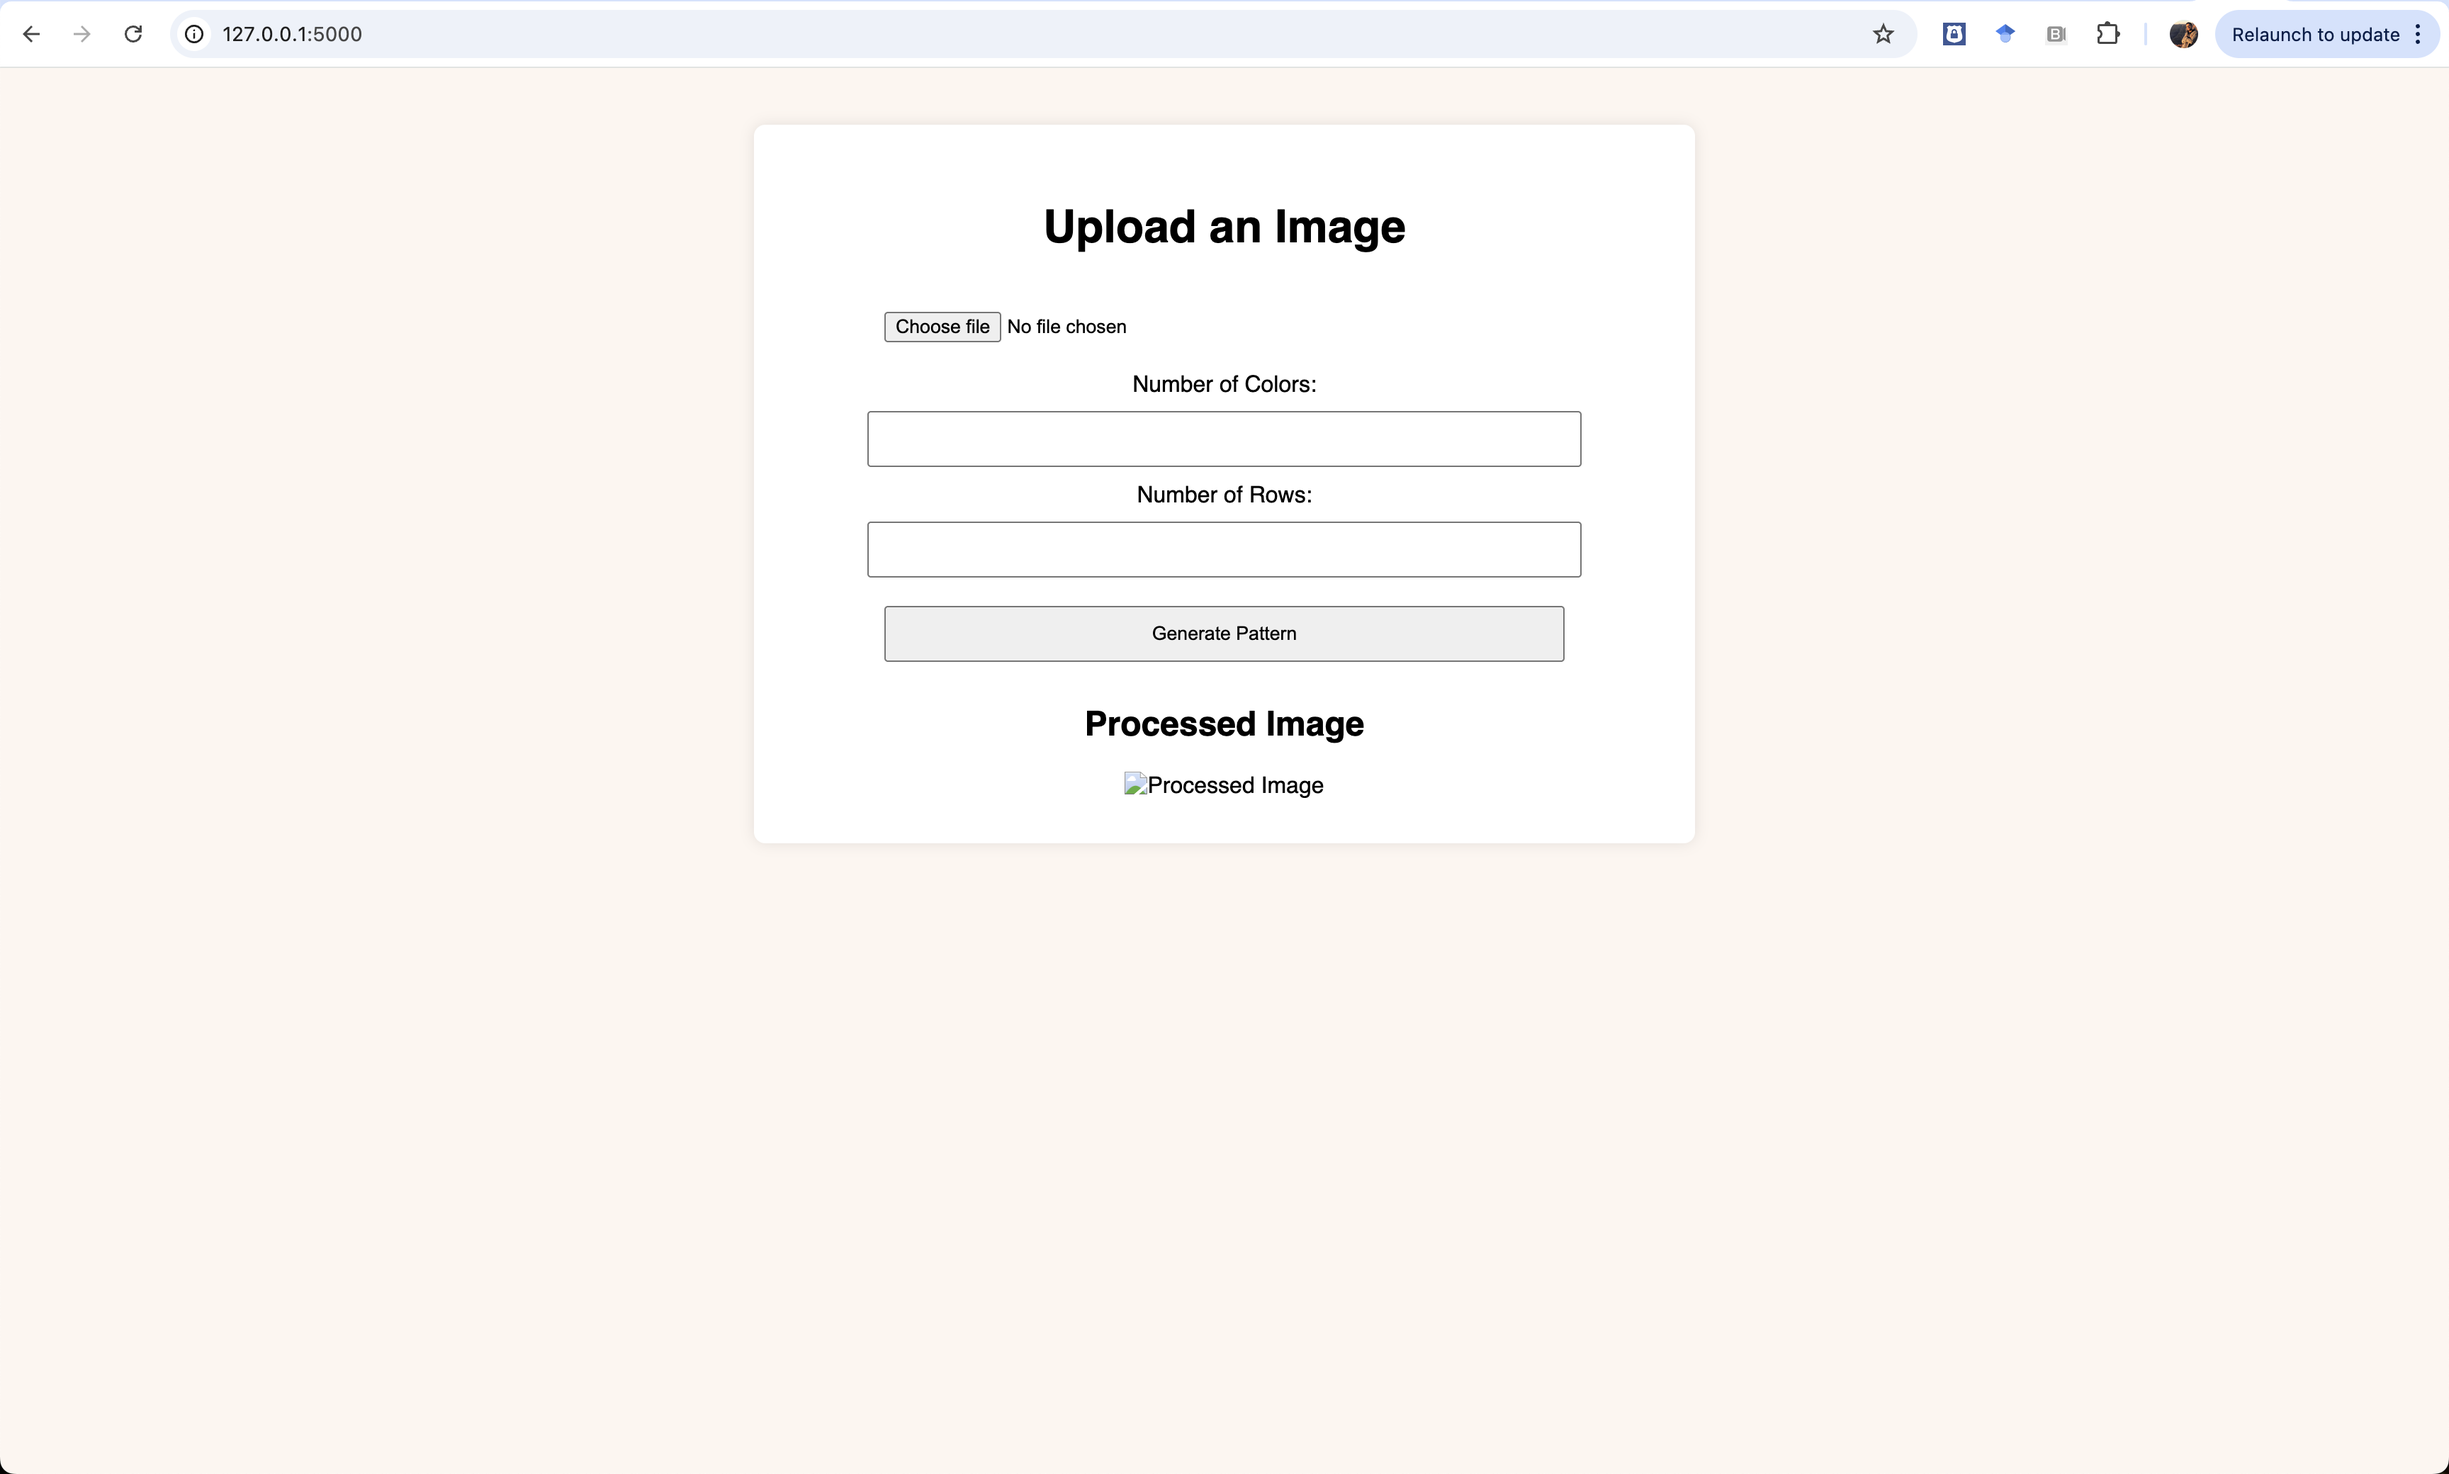
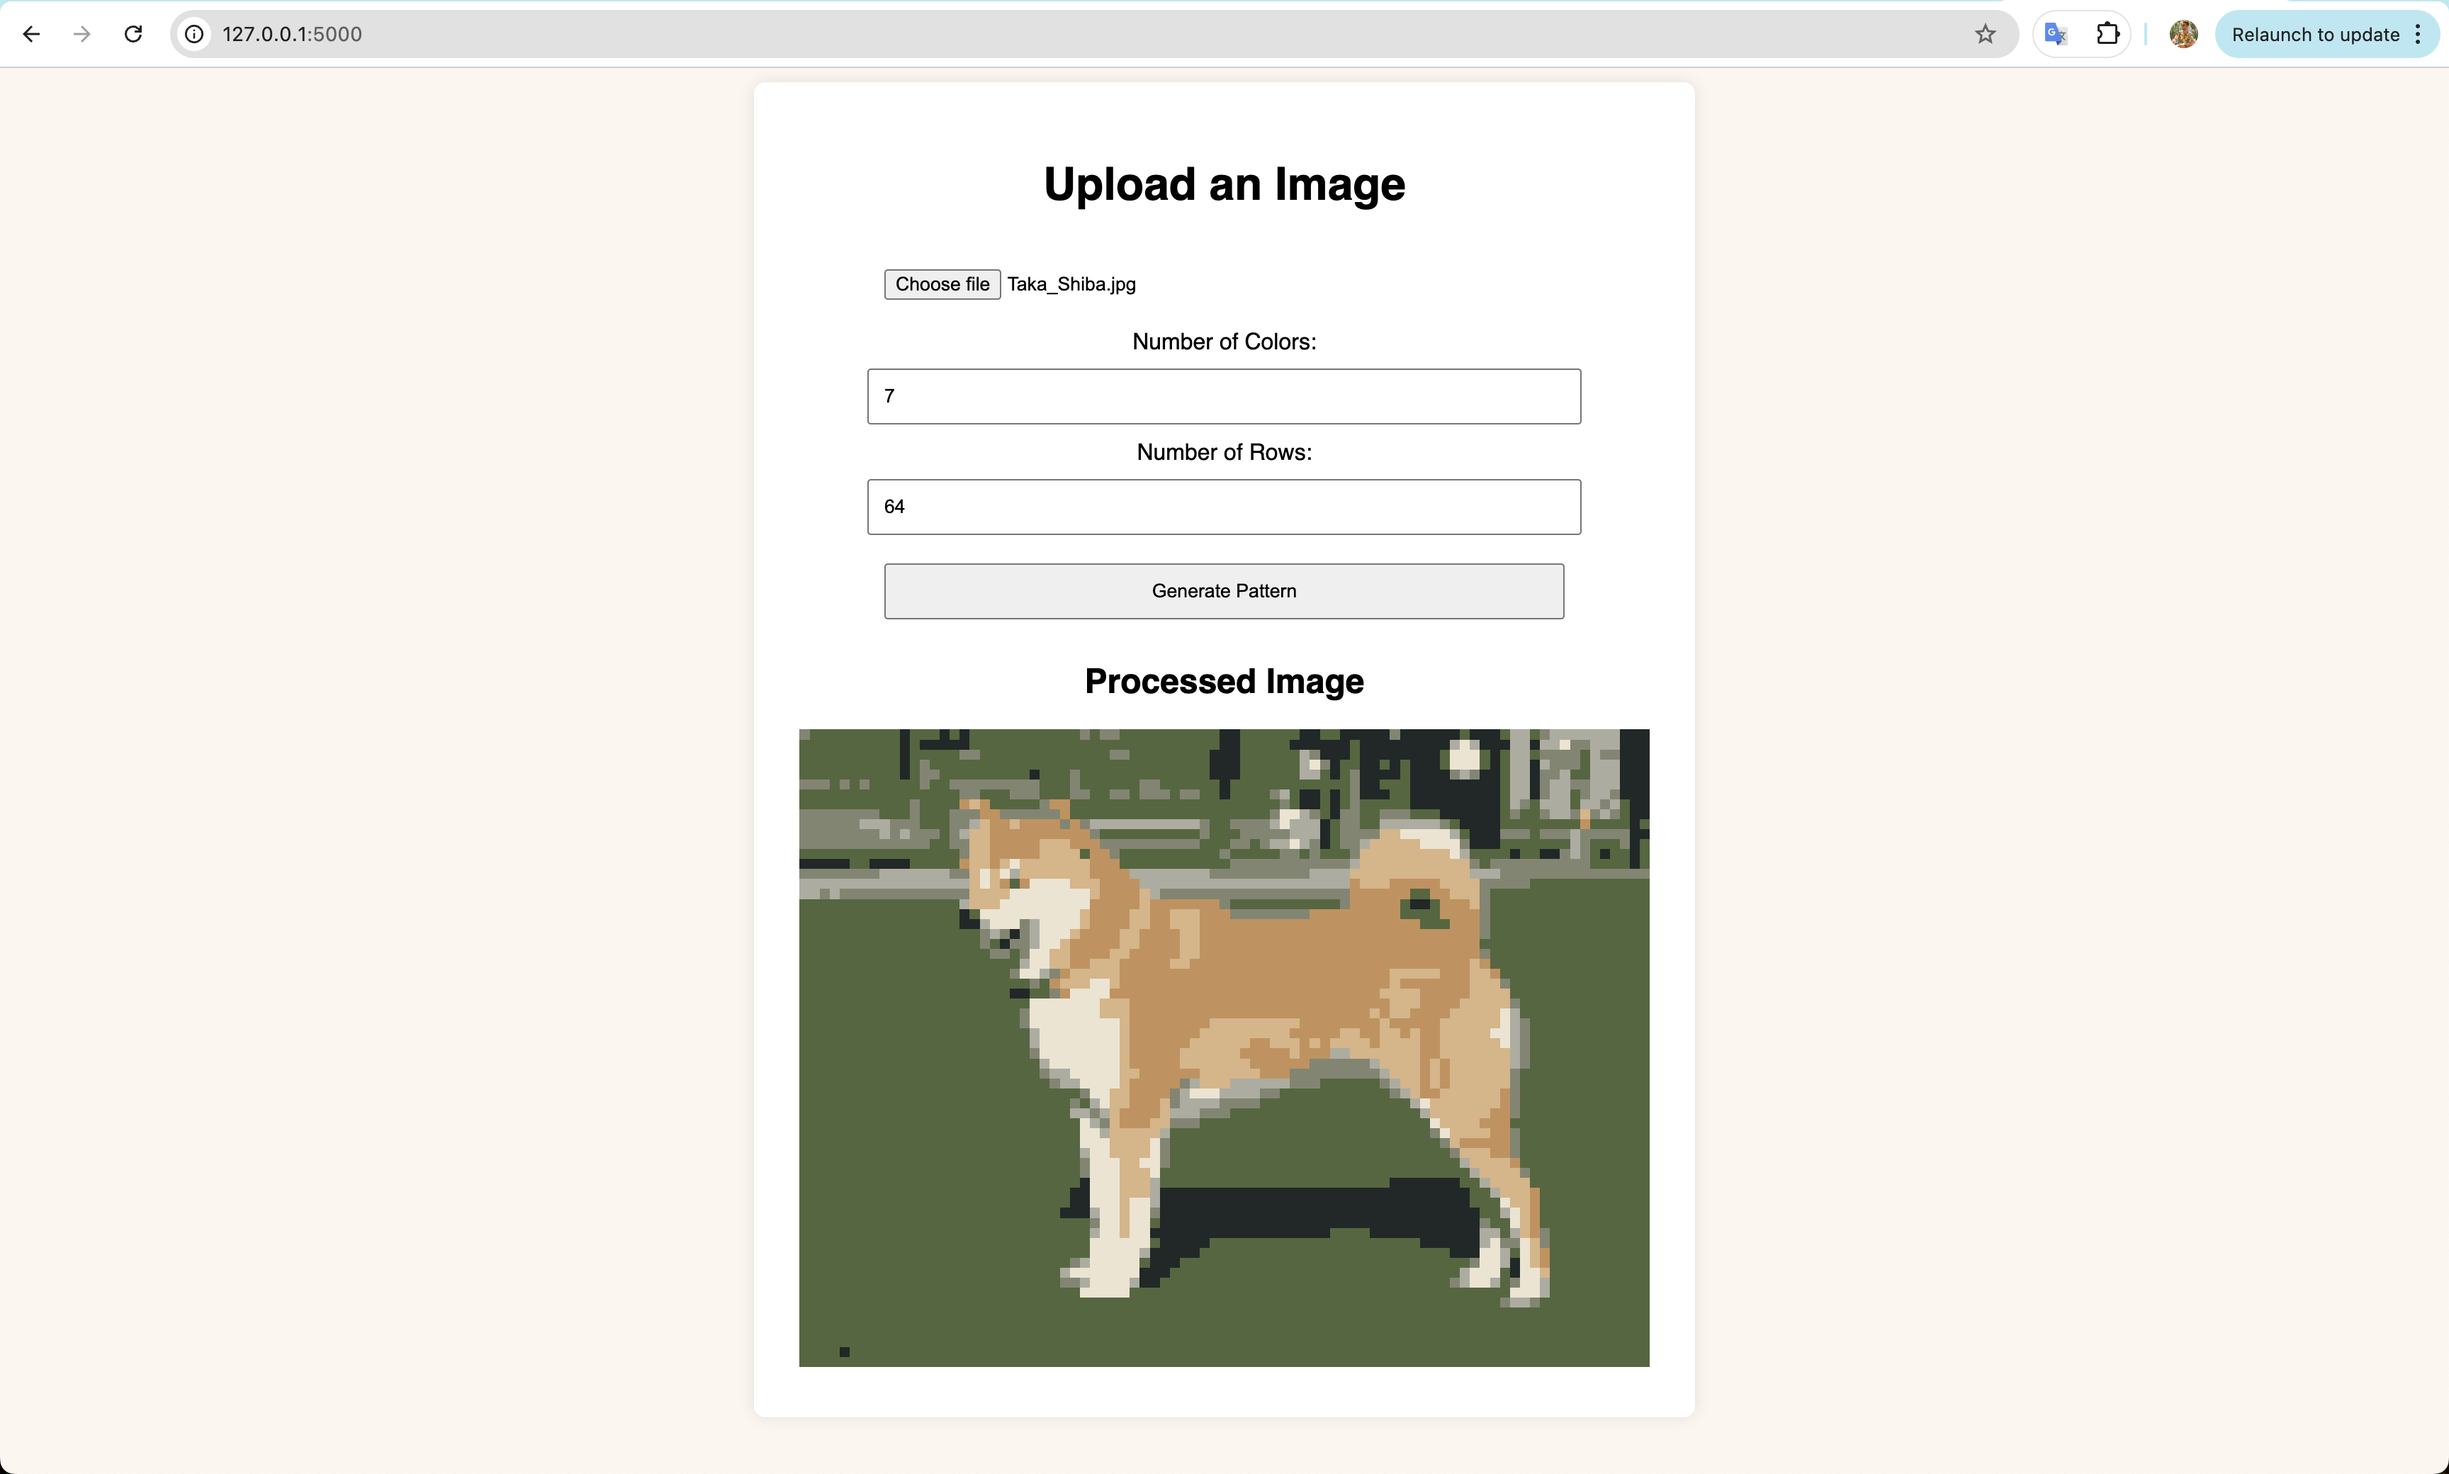
update the screenshot to show an example

Changed region(s): [[0.3125, 0.375, 0.6875, 0.9375], [0.375, 0.0938, 0.5938, 0.3438], [0.7812, 0.0, 0.9062, 0.0625]]

diff --git a/README.md b/README.md
@@ -1,11 +1,9 @@
 # Stitchify: turn any image into an artistic cross-stitch
 
 
-
 - A web app: front end (HTML, JS)
 - Backend ?
 - Load an image, it is turned into a cross stitch
-
 
 ## To run the flask app locally
 
@@ -13,4 +11,4 @@
 or
 `python app.py
 
-![alt text](images/screenshot.png)
+![Screenshot of the app](images/screenshot.png)
